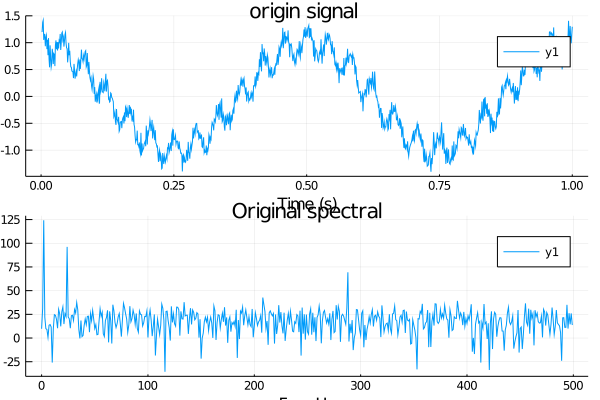
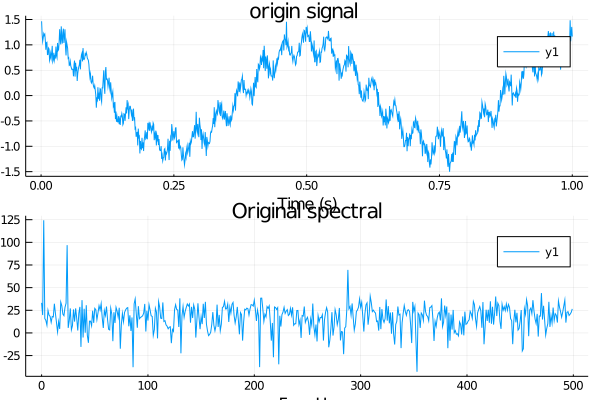
build based on 6014d8a

diff --git a/dev/index.html b/dev/index.html
@@ -1,2 +1,2 @@
 <!DOCTYPE html>
-<html lang="en"><head><meta charset="UTF-8"/><meta name="viewport" content="width=device-width, initial-scale=1.0"/><title>Home · VMD.jl</title><link href="https://fonts.googleapis.com/css?family=Lato|Roboto+Mono" rel="stylesheet" type="text/css"/><link href="https://cdnjs.cloudflare.com/ajax/libs/font-awesome/5.11.2/css/fontawesome.min.css" rel="stylesheet" type="text/css"/><link href="https://cdnjs.cloudflare.com/ajax/libs/font-awesome/5.11.2/css/solid.min.css" rel="stylesheet" type="text/css"/><link href="https://cdnjs.cloudflare.com/ajax/libs/font-awesome/5.11.2/css/brands.min.css" rel="stylesheet" type="text/css"/><link href="https://cdnjs.cloudflare.com/ajax/libs/KaTeX/0.11.1/katex.min.css" rel="stylesheet" type="text/css"/><script>documenterBaseURL="."</script><script src="https://cdnjs.cloudflare.com/ajax/libs/require.js/2.3.6/require.min.js" data-main="assets/documenter.js"></script><script src="siteinfo.js"></script><script src="../versions.js"></script><link class="docs-theme-link" rel="stylesheet" type="text/css" href="assets/themes/documenter-dark.css" data-theme-name="documenter-dark"/><link class="docs-theme-link" rel="stylesheet" type="text/css" href="assets/themes/documenter-light.css" data-theme-name="documenter-light" data-theme-primary/><script src="assets/themeswap.js"></script></head><body><div id="documenter"><nav class="docs-sidebar"><div class="docs-package-name"><span class="docs-autofit">VMD.jl</span></div><form class="docs-search" action="search/"><input class="docs-search-query" id="documenter-search-query" name="q" type="text" placeholder="Search docs"/></form><ul class="docs-menu"><li class="is-active"><a class="tocitem" href>Home</a><ul class="internal"><li><a class="tocitem" href="#Introduction-1"><span>Introduction</span></a></li></ul></li><li><span class="tocitem">Examples</span><ul><li><a class="tocitem" href="examples/">example</a></li><li><a class="tocitem" href="example1/">example1</a></li><li><a class="tocitem" href="example2/">example2</a></li><li><a class="tocitem" href="example3/">exmaple3</a></li></ul></li><li><a class="tocitem" href="api/">Reference</a></li></ul><div class="docs-version-selector field has-addons"><div class="control"><span class="docs-label button is-static is-size-7">Version</span></div><div class="docs-selector control is-expanded"><div class="select is-fullwidth is-size-7"><select id="documenter-version-selector"></select></div></div></div></nav><div class="docs-main"><header class="docs-navbar"><nav class="breadcrumb"><ul class="is-hidden-mobile"><li class="is-active"><a href>Home</a></li></ul><ul class="is-hidden-tablet"><li class="is-active"><a href>Home</a></li></ul></nav><div class="docs-right"><a class="docs-edit-link" href="https://github.com/hzgzh/VMD.jl/blob/master/docs/src/index.md" title="Edit on GitHub"><span class="docs-icon fab"></span><span class="docs-label is-hidden-touch">Edit on GitHub</span></a><a class="docs-settings-button fas fa-cog" id="documenter-settings-button" href="#" title="Settings"></a><a class="docs-sidebar-button fa fa-bars is-hidden-desktop" id="documenter-sidebar-button" href="#"></a></div></header><article class="content" id="documenter-page"><h1 id="VMD.jl-Document-1"><a class="docs-heading-anchor" href="#VMD.jl-Document-1">VMD.jl Document</a><a class="docs-heading-anchor-permalink" href="#VMD.jl-Document-1" title="Permalink"></a></h1><h2 id="Introduction-1"><a class="docs-heading-anchor" href="#Introduction-1">Introduction</a><a class="docs-heading-anchor-permalink" href="#Introduction-1" title="Permalink"></a></h2><p>The goal of VMD is to decompose a real valued input signal <span>$f$</span> into a discrete number of sub-signals (modes),<span>$u_k$</span> , that have specific sparsity properties while reproducing the input Here, the sparsity prior of each mode is chosen to be its bandwidth in spectral domain. In other words, we assume each mode <span>$k$</span> to be mostly compact around a center pulsation <span>$\omega_k$</span> , which is to be determined along with the decomposition.</p><ul></ul></article><nav class="docs-footer"><a class="docs-footer-nextpage" href="examples/">example »</a></nav></div><div class="modal" id="documenter-settings"><div class="modal-background"></div><div class="modal-card"><header class="modal-card-head"><p class="modal-card-title">Settings</p><button class="delete"></button></header><section class="modal-card-body"><p><label class="label">Theme</label><div class="select"><select id="documenter-themepicker"><option value="documenter-light">documenter-light</option><option value="documenter-dark">documenter-dark</option></select></div></p><hr/><p>This document was generated with <a href="https://github.com/JuliaDocs/Documenter.jl">Documenter.jl</a> on <span class="colophon-date" title="Tuesday 16 June 2020 14:26">Tuesday 16 June 2020</span>. Using Julia version 1.4.2.</p></section><footer class="modal-card-foot"></footer></div></div></div></body></html>
+<html lang="en"><head><meta charset="UTF-8"/><meta name="viewport" content="width=device-width, initial-scale=1.0"/><title>Home · VMD.jl</title><link href="https://fonts.googleapis.com/css?family=Lato|Roboto+Mono" rel="stylesheet" type="text/css"/><link href="https://cdnjs.cloudflare.com/ajax/libs/font-awesome/5.11.2/css/fontawesome.min.css" rel="stylesheet" type="text/css"/><link href="https://cdnjs.cloudflare.com/ajax/libs/font-awesome/5.11.2/css/solid.min.css" rel="stylesheet" type="text/css"/><link href="https://cdnjs.cloudflare.com/ajax/libs/font-awesome/5.11.2/css/brands.min.css" rel="stylesheet" type="text/css"/><link href="https://cdnjs.cloudflare.com/ajax/libs/KaTeX/0.11.1/katex.min.css" rel="stylesheet" type="text/css"/><script>documenterBaseURL="."</script><script src="https://cdnjs.cloudflare.com/ajax/libs/require.js/2.3.6/require.min.js" data-main="assets/documenter.js"></script><script src="siteinfo.js"></script><script src="../versions.js"></script><link class="docs-theme-link" rel="stylesheet" type="text/css" href="assets/themes/documenter-dark.css" data-theme-name="documenter-dark"/><link class="docs-theme-link" rel="stylesheet" type="text/css" href="assets/themes/documenter-light.css" data-theme-name="documenter-light" data-theme-primary/><script src="assets/themeswap.js"></script></head><body><div id="documenter"><nav class="docs-sidebar"><div class="docs-package-name"><span class="docs-autofit">VMD.jl</span></div><form class="docs-search" action="search/"><input class="docs-search-query" id="documenter-search-query" name="q" type="text" placeholder="Search docs"/></form><ul class="docs-menu"><li class="is-active"><a class="tocitem" href>Home</a><ul class="internal"><li><a class="tocitem" href="#Introduction-1"><span>Introduction</span></a></li></ul></li><li><span class="tocitem">Examples</span><ul><li><a class="tocitem" href="examples/">example</a></li><li><a class="tocitem" href="example1/">example1</a></li><li><a class="tocitem" href="example2/">example2</a></li><li><a class="tocitem" href="example3/">exmaple3</a></li></ul></li><li><a class="tocitem" href="api/">Reference</a></li></ul><div class="docs-version-selector field has-addons"><div class="control"><span class="docs-label button is-static is-size-7">Version</span></div><div class="docs-selector control is-expanded"><div class="select is-fullwidth is-size-7"><select id="documenter-version-selector"></select></div></div></div></nav><div class="docs-main"><header class="docs-navbar"><nav class="breadcrumb"><ul class="is-hidden-mobile"><li class="is-active"><a href>Home</a></li></ul><ul class="is-hidden-tablet"><li class="is-active"><a href>Home</a></li></ul></nav><div class="docs-right"><a class="docs-edit-link" href="https://github.com/hzgzh/VMD.jl/blob/master/docs/src/index.md" title="Edit on GitHub"><span class="docs-icon fab"></span><span class="docs-label is-hidden-touch">Edit on GitHub</span></a><a class="docs-settings-button fas fa-cog" id="documenter-settings-button" href="#" title="Settings"></a><a class="docs-sidebar-button fa fa-bars is-hidden-desktop" id="documenter-sidebar-button" href="#"></a></div></header><article class="content" id="documenter-page"><h1 id="VMD.jl-Document-1"><a class="docs-heading-anchor" href="#VMD.jl-Document-1">VMD.jl Document</a><a class="docs-heading-anchor-permalink" href="#VMD.jl-Document-1" title="Permalink"></a></h1><h2 id="Introduction-1"><a class="docs-heading-anchor" href="#Introduction-1">Introduction</a><a class="docs-heading-anchor-permalink" href="#Introduction-1" title="Permalink"></a></h2><p>The goal of VMD is to decompose a real valued input signal <span>$f$</span> into a discrete number of sub-signals (modes),<span>$u_k$</span> , that have specific sparsity properties while reproducing the input Here, the sparsity prior of each mode is chosen to be its bandwidth in spectral domain. In other words, we assume each mode <span>$k$</span> to be mostly compact around a center pulsation <span>$\omega_k$</span> , which is to be determined along with the decomposition.</p><ul></ul></article><nav class="docs-footer"><a class="docs-footer-nextpage" href="examples/">example »</a></nav></div><div class="modal" id="documenter-settings"><div class="modal-background"></div><div class="modal-card"><header class="modal-card-head"><p class="modal-card-title">Settings</p><button class="delete"></button></header><section class="modal-card-body"><p><label class="label">Theme</label><div class="select"><select id="documenter-themepicker"><option value="documenter-light">documenter-light</option><option value="documenter-dark">documenter-dark</option></select></div></p><hr/><p>This document was generated with <a href="https://github.com/JuliaDocs/Documenter.jl">Documenter.jl</a> on <span class="colophon-date" title="Wednesday 17 June 2020 09:31">Wednesday 17 June 2020</span>. Using Julia version 1.4.2.</p></section><footer class="modal-card-foot"></footer></div></div></div></body></html>

diff --git a/dev/search/index.html b/dev/search/index.html
@@ -1,2 +1,2 @@
 <!DOCTYPE html>
-<html lang="en"><head><meta charset="UTF-8"/><meta name="viewport" content="width=device-width, initial-scale=1.0"/><title>Search · VMD.jl</title><link href="https://fonts.googleapis.com/css?family=Lato|Roboto+Mono" rel="stylesheet" type="text/css"/><link href="https://cdnjs.cloudflare.com/ajax/libs/font-awesome/5.11.2/css/fontawesome.min.css" rel="stylesheet" type="text/css"/><link href="https://cdnjs.cloudflare.com/ajax/libs/font-awesome/5.11.2/css/solid.min.css" rel="stylesheet" type="text/css"/><link href="https://cdnjs.cloudflare.com/ajax/libs/font-awesome/5.11.2/css/brands.min.css" rel="stylesheet" type="text/css"/><link href="https://cdnjs.cloudflare.com/ajax/libs/KaTeX/0.11.1/katex.min.css" rel="stylesheet" type="text/css"/><script>documenterBaseURL=".."</script><script src="https://cdnjs.cloudflare.com/ajax/libs/require.js/2.3.6/require.min.js" data-main="../assets/documenter.js"></script><script src="../siteinfo.js"></script><script src="../../versions.js"></script><link class="docs-theme-link" rel="stylesheet" type="text/css" href="../assets/themes/documenter-dark.css" data-theme-name="documenter-dark"/><link class="docs-theme-link" rel="stylesheet" type="text/css" href="../assets/themes/documenter-light.css" data-theme-name="documenter-light" data-theme-primary/><script src="../assets/themeswap.js"></script></head><body><div id="documenter"><nav class="docs-sidebar"><div class="docs-package-name"><span class="docs-autofit">VMD.jl</span></div><form class="docs-search" action><input class="docs-search-query" id="documenter-search-query" name="q" type="text" placeholder="Search docs"/></form><ul class="docs-menu"><li><a class="tocitem" href="../">Home</a></li><li><span class="tocitem">Examples</span><ul><li><a class="tocitem" href="../examples/">example</a></li><li><a class="tocitem" href="../example1/">example1</a></li><li><a class="tocitem" href="../example2/">example2</a></li><li><a class="tocitem" href="../example3/">exmaple3</a></li></ul></li><li><a class="tocitem" href="../api/">Reference</a></li></ul><div class="docs-version-selector field has-addons"><div class="control"><span class="docs-label button is-static is-size-7">Version</span></div><div class="docs-selector control is-expanded"><div class="select is-fullwidth is-size-7"><select id="documenter-version-selector"></select></div></div></div></nav><div class="docs-main"><header class="docs-navbar"><nav class="breadcrumb"><ul class="is-hidden-mobile"><li class="is-active"><a href>Search</a></li></ul><ul class="is-hidden-tablet"><li class="is-active"><a href>Search</a></li></ul></nav><div class="docs-right"><a class="docs-settings-button fas fa-cog" id="documenter-settings-button" href="#" title="Settings"></a><a class="docs-sidebar-button fa fa-bars is-hidden-desktop" id="documenter-sidebar-button" href="#"></a></div></header><article><p id="documenter-search-info">Loading search...</p><ul id="documenter-search-results"></ul></article></div><div class="modal" id="documenter-settings"><div class="modal-background"></div><div class="modal-card"><header class="modal-card-head"><p class="modal-card-title">Settings</p><button class="delete"></button></header><section class="modal-card-body"><p><label class="label">Theme</label><div class="select"><select id="documenter-themepicker"><option value="documenter-light">documenter-light</option><option value="documenter-dark">documenter-dark</option></select></div></p><hr/><p>This document was generated with <a href="https://github.com/JuliaDocs/Documenter.jl">Documenter.jl</a> on <span class="colophon-date" title="Tuesday 16 June 2020 14:26">Tuesday 16 June 2020</span>. Using Julia version 1.4.2.</p></section><footer class="modal-card-foot"></footer></div></div></div></body><script src="../search_index.js"></script><script src="../assets/search.js"></script></html>
+<html lang="en"><head><meta charset="UTF-8"/><meta name="viewport" content="width=device-width, initial-scale=1.0"/><title>Search · VMD.jl</title><link href="https://fonts.googleapis.com/css?family=Lato|Roboto+Mono" rel="stylesheet" type="text/css"/><link href="https://cdnjs.cloudflare.com/ajax/libs/font-awesome/5.11.2/css/fontawesome.min.css" rel="stylesheet" type="text/css"/><link href="https://cdnjs.cloudflare.com/ajax/libs/font-awesome/5.11.2/css/solid.min.css" rel="stylesheet" type="text/css"/><link href="https://cdnjs.cloudflare.com/ajax/libs/font-awesome/5.11.2/css/brands.min.css" rel="stylesheet" type="text/css"/><link href="https://cdnjs.cloudflare.com/ajax/libs/KaTeX/0.11.1/katex.min.css" rel="stylesheet" type="text/css"/><script>documenterBaseURL=".."</script><script src="https://cdnjs.cloudflare.com/ajax/libs/require.js/2.3.6/require.min.js" data-main="../assets/documenter.js"></script><script src="../siteinfo.js"></script><script src="../../versions.js"></script><link class="docs-theme-link" rel="stylesheet" type="text/css" href="../assets/themes/documenter-dark.css" data-theme-name="documenter-dark"/><link class="docs-theme-link" rel="stylesheet" type="text/css" href="../assets/themes/documenter-light.css" data-theme-name="documenter-light" data-theme-primary/><script src="../assets/themeswap.js"></script></head><body><div id="documenter"><nav class="docs-sidebar"><div class="docs-package-name"><span class="docs-autofit">VMD.jl</span></div><form class="docs-search" action><input class="docs-search-query" id="documenter-search-query" name="q" type="text" placeholder="Search docs"/></form><ul class="docs-menu"><li><a class="tocitem" href="../">Home</a></li><li><span class="tocitem">Examples</span><ul><li><a class="tocitem" href="../examples/">example</a></li><li><a class="tocitem" href="../example1/">example1</a></li><li><a class="tocitem" href="../example2/">example2</a></li><li><a class="tocitem" href="../example3/">exmaple3</a></li></ul></li><li><a class="tocitem" href="../api/">Reference</a></li></ul><div class="docs-version-selector field has-addons"><div class="control"><span class="docs-label button is-static is-size-7">Version</span></div><div class="docs-selector control is-expanded"><div class="select is-fullwidth is-size-7"><select id="documenter-version-selector"></select></div></div></div></nav><div class="docs-main"><header class="docs-navbar"><nav class="breadcrumb"><ul class="is-hidden-mobile"><li class="is-active"><a href>Search</a></li></ul><ul class="is-hidden-tablet"><li class="is-active"><a href>Search</a></li></ul></nav><div class="docs-right"><a class="docs-settings-button fas fa-cog" id="documenter-settings-button" href="#" title="Settings"></a><a class="docs-sidebar-button fa fa-bars is-hidden-desktop" id="documenter-sidebar-button" href="#"></a></div></header><article><p id="documenter-search-info">Loading search...</p><ul id="documenter-search-results"></ul></article></div><div class="modal" id="documenter-settings"><div class="modal-background"></div><div class="modal-card"><header class="modal-card-head"><p class="modal-card-title">Settings</p><button class="delete"></button></header><section class="modal-card-body"><p><label class="label">Theme</label><div class="select"><select id="documenter-themepicker"><option value="documenter-light">documenter-light</option><option value="documenter-dark">documenter-dark</option></select></div></p><hr/><p>This document was generated with <a href="https://github.com/JuliaDocs/Documenter.jl">Documenter.jl</a> on <span class="colophon-date" title="Wednesday 17 June 2020 09:31">Wednesday 17 June 2020</span>. Using Julia version 1.4.2.</p></section><footer class="modal-card-foot"></footer></div></div></div></body><script src="../search_index.js"></script><script src="../assets/search.js"></script></html>

diff --git a/dev/example2/index.html b/dev/example2/index.html
@@ -81,11 +81,11 @@ julia&gt; init = 0;           # initialize omegas uniformly
 julia&gt; tol = 1e-7;
 
 julia&gt; v = vmd(f ; alpha = alpha,tau = tau,K = K,DC = false,init = init,tol = tol,sample_frequency = sample_frequency)
---iteration times 107 -- error 8.982318050391443e-8
+--iteration times 106 -- error 8.659488702452096e-8
 
 julia&gt; # the first mode frequency
        print(&quot;1st mode frequency $(n_mode(v,1))&quot;)
-1st mode frequency 0.1642581472754003
+1st mode frequency 0.16405157859551048
 julia&gt; p0 = VMD.plot(v,k=0)
 Plot{Plots.GRBackend() n=2}
 
@@ -109,4 +109,4 @@ julia&gt; savefig(p3,&quot;2_3.png&quot;)
 julia&gt; p4 = VMD.plot(v,k=4)
 Plot{Plots.GRBackend() n=2}
 
-julia&gt; savefig(p4,&quot;2_4.png&quot;)</code></pre><h2 id="plot-the-original-signal-and-spectrum-1"><a class="docs-heading-anchor" href="#plot-the-original-signal-and-spectrum-1">plot the original signal and spectrum</a><a class="docs-heading-anchor-permalink" href="#plot-the-original-signal-and-spectrum-1" title="Permalink"></a></h2><p><img src="../2_0.png" alt/></p><h2 id="plot-the-1st-decomposed-signal-and-spectrum-1"><a class="docs-heading-anchor" href="#plot-the-1st-decomposed-signal-and-spectrum-1">plot the 1st decomposed signal and spectrum</a><a class="docs-heading-anchor-permalink" href="#plot-the-1st-decomposed-signal-and-spectrum-1" title="Permalink"></a></h2><p><img src="../2_1.png" alt/></p><h2 id="plot-the-2st-signal-and-spectrum-1"><a class="docs-heading-anchor" href="#plot-the-2st-signal-and-spectrum-1">plot the 2st signal and spectrum</a><a class="docs-heading-anchor-permalink" href="#plot-the-2st-signal-and-spectrum-1" title="Permalink"></a></h2><p><img src="../2_2.png" alt/></p><h2 id="plot-the-3st-decomposed-signal-and-spectrum-1"><a class="docs-heading-anchor" href="#plot-the-3st-decomposed-signal-and-spectrum-1">plot the 3st decomposed signal and spectrum</a><a class="docs-heading-anchor-permalink" href="#plot-the-3st-decomposed-signal-and-spectrum-1" title="Permalink"></a></h2><p><img src="../2_3.png" alt/></p><h2 id="plot-the-4st-decomposed-signal-and-spectrum-1"><a class="docs-heading-anchor" href="#plot-the-4st-decomposed-signal-and-spectrum-1">plot the 4st decomposed signal and spectrum</a><a class="docs-heading-anchor-permalink" href="#plot-the-4st-decomposed-signal-and-spectrum-1" title="Permalink"></a></h2><p><img src="../2_4.png" alt/></p></article><nav class="docs-footer"><a class="docs-footer-prevpage" href="../example1/">« example1</a><a class="docs-footer-nextpage" href="../example3/">exmaple3 »</a></nav></div><div class="modal" id="documenter-settings"><div class="modal-background"></div><div class="modal-card"><header class="modal-card-head"><p class="modal-card-title">Settings</p><button class="delete"></button></header><section class="modal-card-body"><p><label class="label">Theme</label><div class="select"><select id="documenter-themepicker"><option value="documenter-light">documenter-light</option><option value="documenter-dark">documenter-dark</option></select></div></p><hr/><p>This document was generated with <a href="https://github.com/JuliaDocs/Documenter.jl">Documenter.jl</a> on <span class="colophon-date" title="Tuesday 16 June 2020 14:26">Tuesday 16 June 2020</span>. Using Julia version 1.4.2.</p></section><footer class="modal-card-foot"></footer></div></div></div></body></html>
+julia&gt; savefig(p4,&quot;2_4.png&quot;)</code></pre><h2 id="plot-the-original-signal-and-spectrum-1"><a class="docs-heading-anchor" href="#plot-the-original-signal-and-spectrum-1">plot the original signal and spectrum</a><a class="docs-heading-anchor-permalink" href="#plot-the-original-signal-and-spectrum-1" title="Permalink"></a></h2><p><img src="../2_0.png" alt/></p><h2 id="plot-the-1st-decomposed-signal-and-spectrum-1"><a class="docs-heading-anchor" href="#plot-the-1st-decomposed-signal-and-spectrum-1">plot the 1st decomposed signal and spectrum</a><a class="docs-heading-anchor-permalink" href="#plot-the-1st-decomposed-signal-and-spectrum-1" title="Permalink"></a></h2><p><img src="../2_1.png" alt/></p><h2 id="plot-the-2st-signal-and-spectrum-1"><a class="docs-heading-anchor" href="#plot-the-2st-signal-and-spectrum-1">plot the 2st signal and spectrum</a><a class="docs-heading-anchor-permalink" href="#plot-the-2st-signal-and-spectrum-1" title="Permalink"></a></h2><p><img src="../2_2.png" alt/></p><h2 id="plot-the-3st-decomposed-signal-and-spectrum-1"><a class="docs-heading-anchor" href="#plot-the-3st-decomposed-signal-and-spectrum-1">plot the 3st decomposed signal and spectrum</a><a class="docs-heading-anchor-permalink" href="#plot-the-3st-decomposed-signal-and-spectrum-1" title="Permalink"></a></h2><p><img src="../2_3.png" alt/></p><h2 id="plot-the-4st-decomposed-signal-and-spectrum-1"><a class="docs-heading-anchor" href="#plot-the-4st-decomposed-signal-and-spectrum-1">plot the 4st decomposed signal and spectrum</a><a class="docs-heading-anchor-permalink" href="#plot-the-4st-decomposed-signal-and-spectrum-1" title="Permalink"></a></h2><p><img src="../2_4.png" alt/></p></article><nav class="docs-footer"><a class="docs-footer-prevpage" href="../example1/">« example1</a><a class="docs-footer-nextpage" href="../example3/">exmaple3 »</a></nav></div><div class="modal" id="documenter-settings"><div class="modal-background"></div><div class="modal-card"><header class="modal-card-head"><p class="modal-card-title">Settings</p><button class="delete"></button></header><section class="modal-card-body"><p><label class="label">Theme</label><div class="select"><select id="documenter-themepicker"><option value="documenter-light">documenter-light</option><option value="documenter-dark">documenter-dark</option></select></div></p><hr/><p>This document was generated with <a href="https://github.com/JuliaDocs/Documenter.jl">Documenter.jl</a> on <span class="colophon-date" title="Wednesday 17 June 2020 09:31">Wednesday 17 June 2020</span>. Using Julia version 1.4.2.</p></section><footer class="modal-card-foot"></footer></div></div></div></body></html>

diff --git a/dev/example3/index.html b/dev/example3/index.html
@@ -31,11 +31,11 @@ julia&gt; init = 0;           # initialize omegas uniformly
 julia&gt; tol = 1e-7;
 
 julia&gt; v = vmd(f ; alpha = alpha,tau = tau,K = K,DC = false,init = init,tol = tol,sample_frequency = sample_frequency)
---iteration times 44 -- error 7.324298571562256e-8
+--iteration times 36 -- error 6.034947014790767e-8
 
 julia&gt; # the first mode frequency
        print(&quot;1st mode frequency $(n_mode(v,1))&quot;)
-1st mode frequency 0.3869185017864535
+1st mode frequency 0.39007757014275984
 julia&gt; p0 = VMD.plot(v,k=0)
 Plot{Plots.GRBackend() n=2}
 
@@ -54,4 +54,4 @@ julia&gt; savefig(p2,&quot;3_2.png&quot;)
 julia&gt; p3 = VMD.plot(v,k=3)
 Plot{Plots.GRBackend() n=2}
 
-julia&gt; savefig(p3,&quot;3_3.png&quot;)</code></pre><h2 id="plot-the-original-signal-and-spectrum-1"><a class="docs-heading-anchor" href="#plot-the-original-signal-and-spectrum-1">plot the original signal and spectrum</a><a class="docs-heading-anchor-permalink" href="#plot-the-original-signal-and-spectrum-1" title="Permalink"></a></h2><p><img src="../3_0.png" alt/></p><h2 id="plot-the-1st-decomposed-signal-and-spectrum-1"><a class="docs-heading-anchor" href="#plot-the-1st-decomposed-signal-and-spectrum-1">plot the 1st decomposed signal and spectrum</a><a class="docs-heading-anchor-permalink" href="#plot-the-1st-decomposed-signal-and-spectrum-1" title="Permalink"></a></h2><p><img src="../3_1.png" alt/></p><h2 id="plot-the-2st-signal-and-spectrum-1"><a class="docs-heading-anchor" href="#plot-the-2st-signal-and-spectrum-1">plot the 2st signal and spectrum</a><a class="docs-heading-anchor-permalink" href="#plot-the-2st-signal-and-spectrum-1" title="Permalink"></a></h2><p><img src="../3_2.png" alt/></p><h2 id="plot-the-3st-decomposed-signal-and-spectrum-1"><a class="docs-heading-anchor" href="#plot-the-3st-decomposed-signal-and-spectrum-1">plot the 3st decomposed signal and spectrum</a><a class="docs-heading-anchor-permalink" href="#plot-the-3st-decomposed-signal-and-spectrum-1" title="Permalink"></a></h2><p><img src="../3_3.png" alt/></p></article><nav class="docs-footer"><a class="docs-footer-prevpage" href="../example2/">« example2</a><a class="docs-footer-nextpage" href="../api/">Reference »</a></nav></div><div class="modal" id="documenter-settings"><div class="modal-background"></div><div class="modal-card"><header class="modal-card-head"><p class="modal-card-title">Settings</p><button class="delete"></button></header><section class="modal-card-body"><p><label class="label">Theme</label><div class="select"><select id="documenter-themepicker"><option value="documenter-light">documenter-light</option><option value="documenter-dark">documenter-dark</option></select></div></p><hr/><p>This document was generated with <a href="https://github.com/JuliaDocs/Documenter.jl">Documenter.jl</a> on <span class="colophon-date" title="Tuesday 16 June 2020 14:26">Tuesday 16 June 2020</span>. Using Julia version 1.4.2.</p></section><footer class="modal-card-foot"></footer></div></div></div></body></html>
+julia&gt; savefig(p3,&quot;3_3.png&quot;)</code></pre><h2 id="plot-the-original-signal-and-spectrum-1"><a class="docs-heading-anchor" href="#plot-the-original-signal-and-spectrum-1">plot the original signal and spectrum</a><a class="docs-heading-anchor-permalink" href="#plot-the-original-signal-and-spectrum-1" title="Permalink"></a></h2><p><img src="../3_0.png" alt/></p><h2 id="plot-the-1st-decomposed-signal-and-spectrum-1"><a class="docs-heading-anchor" href="#plot-the-1st-decomposed-signal-and-spectrum-1">plot the 1st decomposed signal and spectrum</a><a class="docs-heading-anchor-permalink" href="#plot-the-1st-decomposed-signal-and-spectrum-1" title="Permalink"></a></h2><p><img src="../3_1.png" alt/></p><h2 id="plot-the-2st-signal-and-spectrum-1"><a class="docs-heading-anchor" href="#plot-the-2st-signal-and-spectrum-1">plot the 2st signal and spectrum</a><a class="docs-heading-anchor-permalink" href="#plot-the-2st-signal-and-spectrum-1" title="Permalink"></a></h2><p><img src="../3_2.png" alt/></p><h2 id="plot-the-3st-decomposed-signal-and-spectrum-1"><a class="docs-heading-anchor" href="#plot-the-3st-decomposed-signal-and-spectrum-1">plot the 3st decomposed signal and spectrum</a><a class="docs-heading-anchor-permalink" href="#plot-the-3st-decomposed-signal-and-spectrum-1" title="Permalink"></a></h2><p><img src="../3_3.png" alt/></p></article><nav class="docs-footer"><a class="docs-footer-prevpage" href="../example2/">« example2</a><a class="docs-footer-nextpage" href="../api/">Reference »</a></nav></div><div class="modal" id="documenter-settings"><div class="modal-background"></div><div class="modal-card"><header class="modal-card-head"><p class="modal-card-title">Settings</p><button class="delete"></button></header><section class="modal-card-body"><p><label class="label">Theme</label><div class="select"><select id="documenter-themepicker"><option value="documenter-light">documenter-light</option><option value="documenter-dark">documenter-dark</option></select></div></p><hr/><p>This document was generated with <a href="https://github.com/JuliaDocs/Documenter.jl">Documenter.jl</a> on <span class="colophon-date" title="Wednesday 17 June 2020 09:31">Wednesday 17 June 2020</span>. Using Julia version 1.4.2.</p></section><footer class="modal-card-foot"></footer></div></div></div></body></html>

diff --git a/dev/examples/index.html b/dev/examples/index.html
@@ -38,11 +38,11 @@ julia&gt; init = 1;           # initialize omegas uniformly
 julia&gt; tol = 1e-7;
 
 julia&gt; v = vmd(f ; alpha = alpha,tau = tau,K = K,DC = false,init = 1,tol = tol,sample_frequency = sample_frequency)
---iteration times 74 -- error 8.964568631778599e-8
+--iteration times 50 -- error 9.058603298379797e-8
 
 julia&gt; # the first mode frequency
        print(&quot;1st mode frequency $(n_mode(v,1))&quot;)
-1st mode frequency 2.0018159877871873
+1st mode frequency 2.002215337095789
 julia&gt; p0 = VMD.plot(v,k=0)
 Plot{Plots.GRBackend() n=2}
 
@@ -61,4 +61,4 @@ julia&gt; savefig(p2,&quot;2.png&quot;)
 julia&gt; p3 = VMD.plot(v,k=3)
 Plot{Plots.GRBackend() n=2}
 
-julia&gt; savefig(p3,&quot;3.png&quot;)</code></pre><h2 id="plot-the-original-signal-and-spectrum-1"><a class="docs-heading-anchor" href="#plot-the-original-signal-and-spectrum-1">plot the original signal and spectrum</a><a class="docs-heading-anchor-permalink" href="#plot-the-original-signal-and-spectrum-1" title="Permalink"></a></h2><p><img src="../0.png" alt/></p><h2 id="plot-the-1st-decomposed-signal-and-spectrum-1"><a class="docs-heading-anchor" href="#plot-the-1st-decomposed-signal-and-spectrum-1">plot the 1st decomposed signal and spectrum</a><a class="docs-heading-anchor-permalink" href="#plot-the-1st-decomposed-signal-and-spectrum-1" title="Permalink"></a></h2><p><img src="../1.png" alt/></p><h2 id="plot-the-2st-signal-and-spectrum-1"><a class="docs-heading-anchor" href="#plot-the-2st-signal-and-spectrum-1">plot the 2st signal and spectrum</a><a class="docs-heading-anchor-permalink" href="#plot-the-2st-signal-and-spectrum-1" title="Permalink"></a></h2><p><img src="../2.png" alt/></p><h2 id="plot-the-3st-decomposed-signal-and-spectrum-1"><a class="docs-heading-anchor" href="#plot-the-3st-decomposed-signal-and-spectrum-1">plot the 3st decomposed signal and spectrum</a><a class="docs-heading-anchor-permalink" href="#plot-the-3st-decomposed-signal-and-spectrum-1" title="Permalink"></a></h2><p><img src="../3.png" alt/></p></article><nav class="docs-footer"><a class="docs-footer-prevpage" href="../">« Home</a><a class="docs-footer-nextpage" href="../example1/">example1 »</a></nav></div><div class="modal" id="documenter-settings"><div class="modal-background"></div><div class="modal-card"><header class="modal-card-head"><p class="modal-card-title">Settings</p><button class="delete"></button></header><section class="modal-card-body"><p><label class="label">Theme</label><div class="select"><select id="documenter-themepicker"><option value="documenter-light">documenter-light</option><option value="documenter-dark">documenter-dark</option></select></div></p><hr/><p>This document was generated with <a href="https://github.com/JuliaDocs/Documenter.jl">Documenter.jl</a> on <span class="colophon-date" title="Tuesday 16 June 2020 14:26">Tuesday 16 June 2020</span>. Using Julia version 1.4.2.</p></section><footer class="modal-card-foot"></footer></div></div></div></body></html>
+julia&gt; savefig(p3,&quot;3.png&quot;)</code></pre><h2 id="plot-the-original-signal-and-spectrum-1"><a class="docs-heading-anchor" href="#plot-the-original-signal-and-spectrum-1">plot the original signal and spectrum</a><a class="docs-heading-anchor-permalink" href="#plot-the-original-signal-and-spectrum-1" title="Permalink"></a></h2><p><img src="../0.png" alt/></p><h2 id="plot-the-1st-decomposed-signal-and-spectrum-1"><a class="docs-heading-anchor" href="#plot-the-1st-decomposed-signal-and-spectrum-1">plot the 1st decomposed signal and spectrum</a><a class="docs-heading-anchor-permalink" href="#plot-the-1st-decomposed-signal-and-spectrum-1" title="Permalink"></a></h2><p><img src="../1.png" alt/></p><h2 id="plot-the-2st-signal-and-spectrum-1"><a class="docs-heading-anchor" href="#plot-the-2st-signal-and-spectrum-1">plot the 2st signal and spectrum</a><a class="docs-heading-anchor-permalink" href="#plot-the-2st-signal-and-spectrum-1" title="Permalink"></a></h2><p><img src="../2.png" alt/></p><h2 id="plot-the-3st-decomposed-signal-and-spectrum-1"><a class="docs-heading-anchor" href="#plot-the-3st-decomposed-signal-and-spectrum-1">plot the 3st decomposed signal and spectrum</a><a class="docs-heading-anchor-permalink" href="#plot-the-3st-decomposed-signal-and-spectrum-1" title="Permalink"></a></h2><p><img src="../3.png" alt/></p></article><nav class="docs-footer"><a class="docs-footer-prevpage" href="../">« Home</a><a class="docs-footer-nextpage" href="../example1/">example1 »</a></nav></div><div class="modal" id="documenter-settings"><div class="modal-background"></div><div class="modal-card"><header class="modal-card-head"><p class="modal-card-title">Settings</p><button class="delete"></button></header><section class="modal-card-body"><p><label class="label">Theme</label><div class="select"><select id="documenter-themepicker"><option value="documenter-light">documenter-light</option><option value="documenter-dark">documenter-dark</option></select></div></p><hr/><p>This document was generated with <a href="https://github.com/JuliaDocs/Documenter.jl">Documenter.jl</a> on <span class="colophon-date" title="Wednesday 17 June 2020 09:31">Wednesday 17 June 2020</span>. Using Julia version 1.4.2.</p></section><footer class="modal-card-foot"></footer></div></div></div></body></html>

diff --git a/dev/example1/index.html b/dev/example1/index.html
@@ -73,7 +73,7 @@ julia&gt; init = 0;           # initialize omegas uniformly
 julia&gt; tol = 1e-7;
 
 julia&gt; v = vmd(f ; alpha = alpha,tau = tau,K = K,DC = false,init = init,tol = tol,sample_frequency = sample_frequency)
---iteration times 325 -- error 9.796743387848904e-8
+--iteration times 324 -- error 9.903638400183284e-8
 
 julia&gt; p0 = VMD.plot(v,k=0)
 Plot{Plots.GRBackend() n=2}
@@ -93,4 +93,4 @@ julia&gt; savefig(p2,&quot;1_2.png&quot;)
 julia&gt; p3 = VMD.plot(v,k=3)
 Plot{Plots.GRBackend() n=2}
 
-julia&gt; savefig(p3,&quot;1_3.png&quot;)</code></pre><h2 id="plot-the-original-signal-and-spectrum-1"><a class="docs-heading-anchor" href="#plot-the-original-signal-and-spectrum-1">plot the original signal and spectrum</a><a class="docs-heading-anchor-permalink" href="#plot-the-original-signal-and-spectrum-1" title="Permalink"></a></h2><p><img src="../1_0.png" alt/></p><h2 id="plot-the-1st-decomposed-signal-and-spectrum-1"><a class="docs-heading-anchor" href="#plot-the-1st-decomposed-signal-and-spectrum-1">plot the 1st decomposed signal and spectrum</a><a class="docs-heading-anchor-permalink" href="#plot-the-1st-decomposed-signal-and-spectrum-1" title="Permalink"></a></h2><p><img src="../1_1.png" alt/></p><h2 id="plot-the-2st-signal-and-spectrum-1"><a class="docs-heading-anchor" href="#plot-the-2st-signal-and-spectrum-1">plot the 2st signal and spectrum</a><a class="docs-heading-anchor-permalink" href="#plot-the-2st-signal-and-spectrum-1" title="Permalink"></a></h2><p><img src="../1_2.png" alt/></p><h2 id="plot-the-3st-decomposed-signal-and-spectrum-1"><a class="docs-heading-anchor" href="#plot-the-3st-decomposed-signal-and-spectrum-1">plot the 3st decomposed signal and spectrum</a><a class="docs-heading-anchor-permalink" href="#plot-the-3st-decomposed-signal-and-spectrum-1" title="Permalink"></a></h2><p><img src="../1_3.png" alt/></p></article><nav class="docs-footer"><a class="docs-footer-prevpage" href="../examples/">« example</a><a class="docs-footer-nextpage" href="../example2/">example2 »</a></nav></div><div class="modal" id="documenter-settings"><div class="modal-background"></div><div class="modal-card"><header class="modal-card-head"><p class="modal-card-title">Settings</p><button class="delete"></button></header><section class="modal-card-body"><p><label class="label">Theme</label><div class="select"><select id="documenter-themepicker"><option value="documenter-light">documenter-light</option><option value="documenter-dark">documenter-dark</option></select></div></p><hr/><p>This document was generated with <a href="https://github.com/JuliaDocs/Documenter.jl">Documenter.jl</a> on <span class="colophon-date" title="Tuesday 16 June 2020 14:26">Tuesday 16 June 2020</span>. Using Julia version 1.4.2.</p></section><footer class="modal-card-foot"></footer></div></div></div></body></html>
+julia&gt; savefig(p3,&quot;1_3.png&quot;)</code></pre><h2 id="plot-the-original-signal-and-spectrum-1"><a class="docs-heading-anchor" href="#plot-the-original-signal-and-spectrum-1">plot the original signal and spectrum</a><a class="docs-heading-anchor-permalink" href="#plot-the-original-signal-and-spectrum-1" title="Permalink"></a></h2><p><img src="../1_0.png" alt/></p><h2 id="plot-the-1st-decomposed-signal-and-spectrum-1"><a class="docs-heading-anchor" href="#plot-the-1st-decomposed-signal-and-spectrum-1">plot the 1st decomposed signal and spectrum</a><a class="docs-heading-anchor-permalink" href="#plot-the-1st-decomposed-signal-and-spectrum-1" title="Permalink"></a></h2><p><img src="../1_1.png" alt/></p><h2 id="plot-the-2st-signal-and-spectrum-1"><a class="docs-heading-anchor" href="#plot-the-2st-signal-and-spectrum-1">plot the 2st signal and spectrum</a><a class="docs-heading-anchor-permalink" href="#plot-the-2st-signal-and-spectrum-1" title="Permalink"></a></h2><p><img src="../1_2.png" alt/></p><h2 id="plot-the-3st-decomposed-signal-and-spectrum-1"><a class="docs-heading-anchor" href="#plot-the-3st-decomposed-signal-and-spectrum-1">plot the 3st decomposed signal and spectrum</a><a class="docs-heading-anchor-permalink" href="#plot-the-3st-decomposed-signal-and-spectrum-1" title="Permalink"></a></h2><p><img src="../1_3.png" alt/></p></article><nav class="docs-footer"><a class="docs-footer-prevpage" href="../examples/">« example</a><a class="docs-footer-nextpage" href="../example2/">example2 »</a></nav></div><div class="modal" id="documenter-settings"><div class="modal-background"></div><div class="modal-card"><header class="modal-card-head"><p class="modal-card-title">Settings</p><button class="delete"></button></header><section class="modal-card-body"><p><label class="label">Theme</label><div class="select"><select id="documenter-themepicker"><option value="documenter-light">documenter-light</option><option value="documenter-dark">documenter-dark</option></select></div></p><hr/><p>This document was generated with <a href="https://github.com/JuliaDocs/Documenter.jl">Documenter.jl</a> on <span class="colophon-date" title="Wednesday 17 June 2020 09:31">Wednesday 17 June 2020</span>. Using Julia version 1.4.2.</p></section><footer class="modal-card-foot"></footer></div></div></div></body></html>

diff --git a/dev/api/index.html b/dev/api/index.html
@@ -44,4 +44,4 @@ v = vmd(f ; alpha = alpha,tau = tau,K = K,DC = false,init = 1,tol = tol,sample_f
 plot(v;k = 0)
 
 # plot first decomposed component and spectrum
-plot(v;k = 1)</code></pre></div><a class="docs-sourcelink" target="_blank" href="https://github.com/hzgzh/VMD.jl/blob/6014d8a4640454c5ac6f4db3869eab2e38b133ef/src/VMD.jl#L58-L113">source</a></section></article></article><nav class="docs-footer"><a class="docs-footer-prevpage" href="../example3/">« exmaple3</a></nav></div><div class="modal" id="documenter-settings"><div class="modal-background"></div><div class="modal-card"><header class="modal-card-head"><p class="modal-card-title">Settings</p><button class="delete"></button></header><section class="modal-card-body"><p><label class="label">Theme</label><div class="select"><select id="documenter-themepicker"><option value="documenter-light">documenter-light</option><option value="documenter-dark">documenter-dark</option></select></div></p><hr/><p>This document was generated with <a href="https://github.com/JuliaDocs/Documenter.jl">Documenter.jl</a> on <span class="colophon-date" title="Tuesday 16 June 2020 14:26">Tuesday 16 June 2020</span>. Using Julia version 1.4.2.</p></section><footer class="modal-card-foot"></footer></div></div></div></body></html>
+plot(v;k = 1)</code></pre></div><a class="docs-sourcelink" target="_blank" href="https://github.com/hzgzh/VMD.jl/blob/6014d8a4640454c5ac6f4db3869eab2e38b133ef/src/VMD.jl#L58-L113">source</a></section></article></article><nav class="docs-footer"><a class="docs-footer-prevpage" href="../example3/">« exmaple3</a></nav></div><div class="modal" id="documenter-settings"><div class="modal-background"></div><div class="modal-card"><header class="modal-card-head"><p class="modal-card-title">Settings</p><button class="delete"></button></header><section class="modal-card-body"><p><label class="label">Theme</label><div class="select"><select id="documenter-themepicker"><option value="documenter-light">documenter-light</option><option value="documenter-dark">documenter-dark</option></select></div></p><hr/><p>This document was generated with <a href="https://github.com/JuliaDocs/Documenter.jl">Documenter.jl</a> on <span class="colophon-date" title="Wednesday 17 June 2020 09:31">Wednesday 17 June 2020</span>. Using Julia version 1.4.2.</p></section><footer class="modal-card-foot"></footer></div></div></div></body></html>
